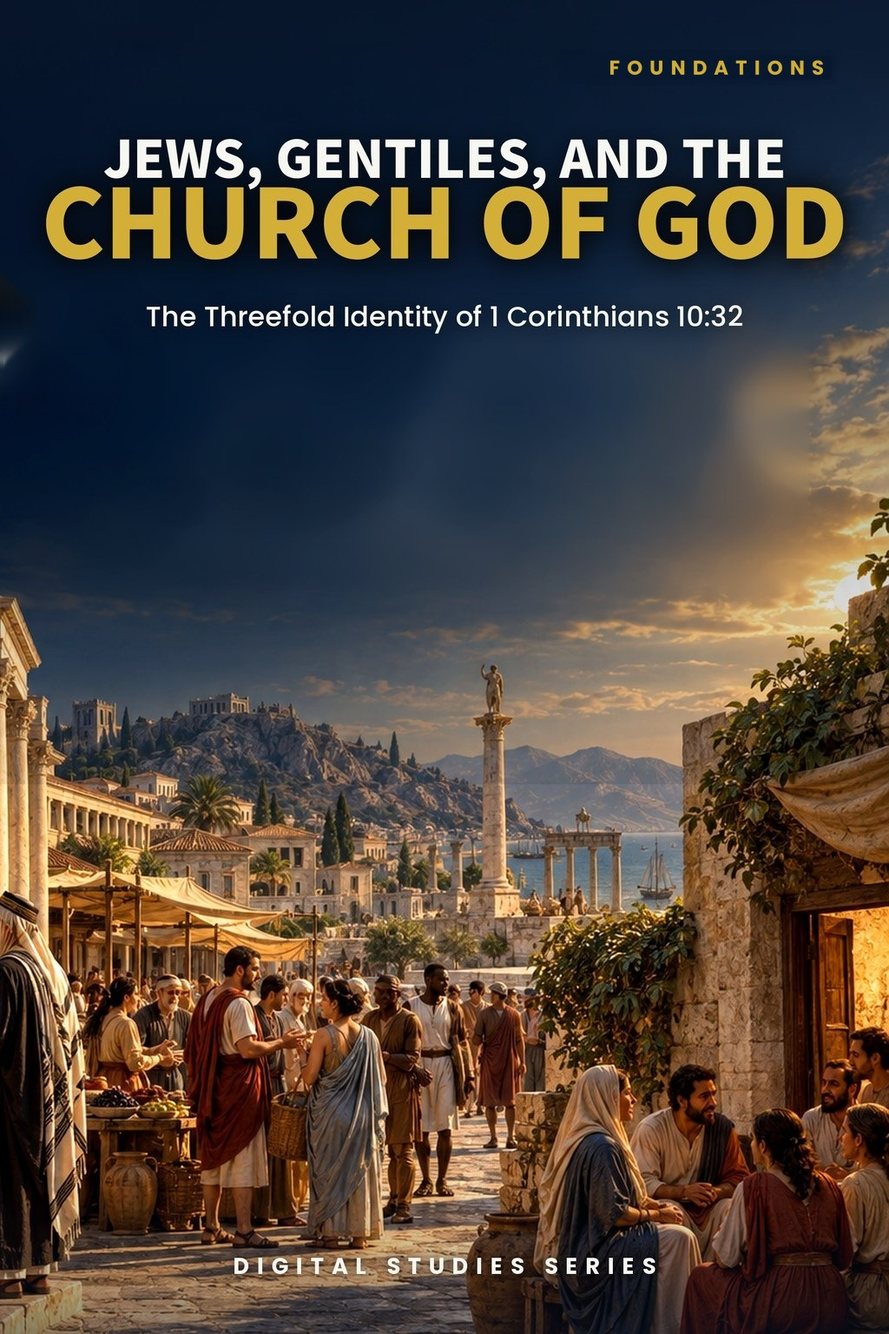
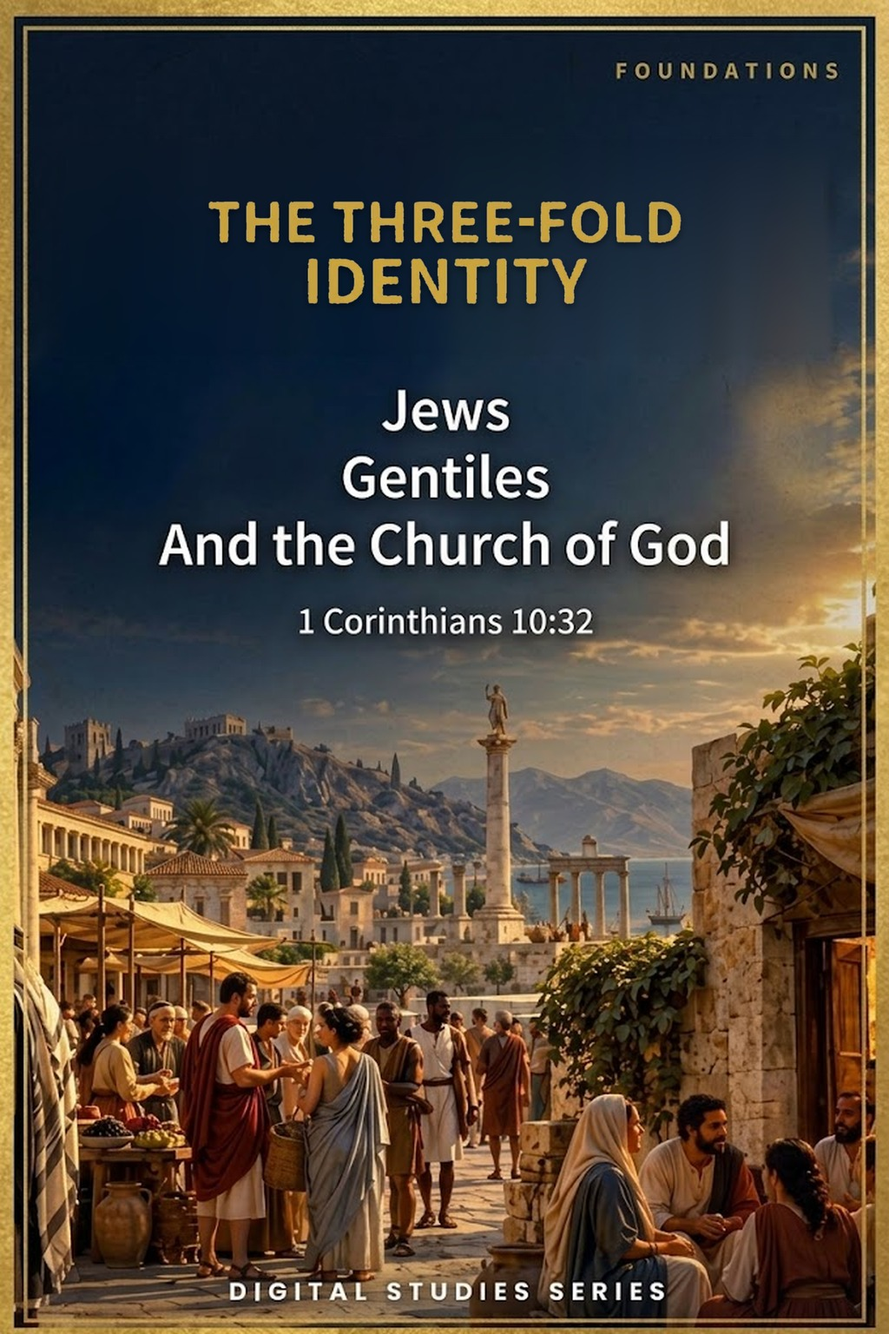
Study 36: Roboto/Standard rebuild, cover title reduced and hyphenated, previews 2/3/5, 16 pages; PAM audit v1.67
Claude-Session: https://claude.ai/code/session_01TLNFW47XCW6YAMUxScR3v4

diff --git a/study-36-jews-gentiles-and-the-church-of-god.html b/study-36-jews-gentiles-and-the-church-of-god.html
@@ -2,12 +2,12 @@
 <html lang="en"><head><meta charset="utf-8"><meta name="viewport" content="width=device-width,initial-scale=1"><title>Jews, Gentiles, and the Church of God | Zay-Marie Press</title><meta name="description" content="Examine the threefold identity of 1 Corinthians 10:32 and distinguish Jewish or Gentile origin from the Church of God’s corporate standing in Christ."><link rel="stylesheet" href="styles.css?v=20260921-4"><link rel="icon" type="image/png" href="assets/zay-marie-press-favicon.png"><style>
 .study-detail-page{background:#fff;color:#252525}.detail-hero{background:linear-gradient(135deg,#f8f5ec,#e3ece2);padding:58px 0}.detail-hero-grid{display:grid;grid-template-columns:minmax(250px,.72fr) minmax(0,1.28fr);gap:58px;align-items:center}.detail-cover{max-width:390px;margin:auto}.detail-cover img{display:block;width:100%;height:auto;box-shadow:0 14px 36px rgba(8,45,69,.18)}.detail-hero h1{font-size:clamp(2.7rem,5vw,4.7rem);line-height:1.02;margin:8px 0 10px;color:#143823}.detail-subtitle{font-family:Georgia,serif;font-size:1.35rem;font-weight:700;color:#082d45;margin:0 0 7px}.detail-kicker{font-family:Georgia,serif;font-style:italic;font-size:1.05rem;color:#4a4a44;margin:0 0 22px}.detail-copy{font-size:1.08rem;line-height:1.65;max-width:760px}.detail-buyline{display:flex;align-items:center;gap:18px;flex-wrap:wrap;margin-top:25px}.detail-price{font-family:Georgia,serif;font-size:2rem;font-weight:700;color:#143823}.detail-format,.preview-card .page-no{font-family:Arial,sans-serif;font-size:.76rem;font-weight:700;letter-spacing:.1em;text-transform:uppercase;color:#176b3a}.detail-button{display:inline-block;background:#176b3a;color:#fff;padding:13px 22px;font-family:Arial,sans-serif;font-size:.8rem;font-weight:700;letter-spacing:.07em;text-transform:uppercase}.detail-button.pending{opacity:.72;cursor:default}.detail-section{padding:66px 0}.detail-section.soft{background:#f6f7f2}.detail-section.cream{background:#faf8f2}.detail-section h2{color:#143823;margin:6px 0 18px;font-size:clamp(2rem,3.4vw,3rem)}.detail-section .lead{max-width:920px;font-size:1.1rem;line-height:1.62}.study-distinction{max-width:920px;margin-top:28px;margin-bottom:28px;padding:26px 28px;background:#fff;border:1px solid #d8d1bf;border-left:4px solid #b8871c}.study-distinction h3{margin:0 0 10px;color:#143823}.study-distinction p{margin:0 0 14px;line-height:1.62}.study-distinction a{font-family:Arial,sans-serif;font-weight:700;color:#176b3a;text-decoration:none}.study-points{display:grid;grid-template-columns:repeat(3,1fr);gap:18px;margin-top:28px;margin-bottom:28px}.study-point,.scripture-card,.preview-card,.include-item{background:#fff;border:1px solid var(--line);text-align:left}.study-point{border-top:3px solid #176b3a;padding:22px}.study-point h3{color:#143823;margin:0 0 8px;font-size:1.2rem}.study-point p,.scripture-card p,.preview-card p,.include-item p{margin:0;line-height:1.55}.scripture-grid{display:grid;grid-template-columns:repeat(4,1fr);gap:14px;margin-top:24px;margin-bottom:24px}.scripture-card{padding:22px 20px;color:#143823}.scripture-card h3{margin:0 0 9px;font-family:Georgia,serif;font-size:1rem;line-height:1.35}.scripture-card p{font-size:.94rem;color:#45453f}.excerpt{max-width:900px;margin:28px auto;border-left:4px solid #b8871c;padding:10px 0 10px 28px}.excerpt blockquote{font-family:Georgia,serif;font-size:clamp(1.45rem,2.5vw,2rem);line-height:1.45;color:#143823;margin:0 0 16px}.excerpt p{line-height:1.6;margin:0}.preview-grid{display:grid;grid-template-columns:repeat(2,1fr);gap:20px;margin-top:28px;margin-bottom:28px}.preview-card{padding:18px;min-height:210px;box-shadow:0 7px 20px rgba(20,40,25,.05)}.preview-image-link{display:block;margin:0 0 18px}.preview-image-link img{display:block;width:100%;height:auto;border:1px solid #d8d1bf;box-shadow:0 8px 22px rgba(20,40,25,.1);transition:transform .18s ease,box-shadow .18s ease}.preview-image-link:hover img{transform:translateY(-2px);box-shadow:0 11px 28px rgba(20,40,25,.16)}.preview-card h3{color:#143823;margin:8px 0 10px}.preview-instruction{margin:10px 0 0;font-family:Arial,sans-serif;font-size:.78rem;letter-spacing:.04em;color:#5b5b55}.includes-grid{display:grid;grid-template-columns:repeat(4,1fr);gap:14px;margin-top:26px}.include-item{padding:22px 20px;color:#143823}.include-item h3{margin:0 0 9px;font-family:Arial,sans-serif;font-size:.86rem;line-height:1.35;letter-spacing:.02em}.include-item p{font-size:.94rem;color:#45453f}.final-buy{background:#082d45;color:#fff;border-top:4px solid #b8871c;padding:42px 48px;display:grid;grid-template-columns:1fr auto;gap:36px;align-items:center}.final-buy .eyebrow,.final-buy h2,.final-buy .detail-price{color:#fff}.final-buy h2{margin:7px 0 6px}.final-buy p{margin:0}.final-offer{text-align:center}.back-link{display:inline-block;margin-top:18px;color:#143823;font-family:Arial,sans-serif;font-weight:700;text-decoration:none}.preview-lightbox{position:fixed;inset:0;z-index:10000;display:none;align-items:flex-start;justify-content:center;background:rgba(8,22,16,.88);padding:24px;overflow:auto}.preview-lightbox.open{display:flex}.preview-lightbox img{display:block;width:auto;height:auto;max-width:none;box-shadow:0 18px 55px rgba(0,0,0,.4);background:#fff}.preview-lightbox-close{position:fixed;top:18px;right:24px;z-index:10001;width:46px;height:46px;border:1px solid rgba(255,255,255,.65);border-radius:50%;background:rgba(0,0,0,.55);color:#fff;font:32px/1 Arial,sans-serif;cursor:pointer}@media(max-width:900px){.detail-hero-grid{grid-template-columns:1fr;gap:34px}.detail-cover{max-width:330px}.study-points{grid-template-columns:repeat(2,1fr)}.scripture-grid,.includes-grid{grid-template-columns:repeat(2,1fr)}.preview-grid,.final-buy{grid-template-columns:1fr}.final-offer{text-align:left}}@media(max-width:560px){.detail-hero{padding:42px 0}.detail-section{padding:50px 0}.study-points,.scripture-grid,.includes-grid{grid-template-columns:1fr}.final-buy{padding:32px 24px}.detail-buyline{align-items:flex-start;flex-direction:column;gap:8px}.preview-lightbox{padding:58px 10px 24px}.preview-lightbox img{width:100%;max-width:100%;height:auto}}</style></head><body class="study-detail-page">
 <header class="site-header"><div class="wrap nav"><a class="logo" href="index.html" aria-label="Zay-Marie Press home"><img src="assets/zay-marie-press-logo-hq.png" alt="Zay-Marie Press" width="420" height="238"></a><button class="menu-toggle" type="button" aria-expanded="false" aria-controls="primary-nav">MENU</button><nav aria-label="Primary navigation" class="primary-nav" id="primary-nav"><a href="index.html">HOME</a><a href="books.html">BOOKS</a><a href="series.html">SERIES</a><a class="active" aria-current="page" href="digital-studies.html">DIGITAL STUDIES</a><a href="biblical-hermeneutics-course.html">COURSE</a><a href="about.html">ABOUT</a><a href="resources.html">RESOURCES</a><a href="contact.html">CONTACT</a></nav></div></header><main>
-<section class="detail-hero"><div class="wrap detail-hero-grid"><div class="detail-cover"><picture><source srcset="assets/study-36-cover.webp" type="image/webp"><img src="assets/study-36-cover.jpg" alt="Jews, Gentiles, and the Church of God cover"></picture></div><div><div class="eyebrow">BIBLICAL DOCTRINE · DIGITAL STUDY</div><h1>Jews, Gentiles, and the Church of God</h1><p class="detail-subtitle">The Threefold Identity of 1 Corinthians 10:32</p><p class="detail-kicker">A focused examination of historical origin, corporate standing, and responsible conduct before all people</p><p class="detail-copy">First Corinthians 10:32 names Jews, Gentiles, and the Church of God within Paul’s instruction about liberty, conscience, idolatry, and avoiding needless offense. What do these categories identify, and how do they relate?</p><p class="detail-copy">This study distinguishes historical and national origin from corporate standing in Christ. It explains equal membership in one Body without erasing Israel, the nations, or the distinct apostolic lines operating during the Acts overlap.</p><div class="detail-buyline"><span class="detail-price">$5.99</span><span class="detail-format">Digital PDF · 15 Pages</span><span class="detail-button pending" aria-disabled="true">Checkout Coming Soon</span></div></div></div></section>
+<section class="detail-hero"><div class="wrap detail-hero-grid"><div class="detail-cover"><picture><source srcset="assets/study-36-cover.webp" type="image/webp"><img src="assets/study-36-cover.jpg" alt="Jews, Gentiles, and the Church of God cover"></picture></div><div><div class="eyebrow">STUDY 36 · DIGITAL STUDY</div><h1>Jews, Gentiles, and the Church of God</h1><p class="detail-subtitle">The Threefold Identity of 1 Corinthians 10:32</p><p class="detail-kicker">A focused examination of historical origin, corporate standing, and responsible conduct before all people</p><p class="detail-copy">First Corinthians 10:32 names Jews, Gentiles, and the Church of God within Paul’s instruction about liberty, conscience, idolatry, and avoiding needless offense. What do these categories identify, and how do they relate?</p><p class="detail-copy">This study distinguishes historical and national origin from corporate standing in Christ. It explains equal membership in one Body without erasing Israel, the nations, or the distinct apostolic lines operating during the Acts overlap.</p><div class="detail-buyline"><span class="detail-price">$5.99</span><span class="detail-format">Digital PDF · 16 Pages</span><span class="detail-button pending" aria-disabled="true">Checkout Coming Soon</span></div></div></div></section>
 <section class="detail-section"><div class="wrap"><div class="eyebrow">ABOUT THIS STUDY</div><h2>Three Meaningful Categories, One Practical Command</h2><p class="lead">Paul’s command works because Jews, Gentiles, and the Church of God are recognizable categories. Yet the verse is not a simplistic census of mutually exclusive social identities. Paul remained an Israelite by descent while belonging to Christ, and Gentile believers retained their historical origin while receiving the same corporate standing in the Body.</p><p class="lead">The study therefore asks what question each designation answers. Historical origin, national relation, corporate standing, audience, and programmatic setting must be distinguished before the verse can be applied responsibly.</p><p class="lead">This is not a study of the broad Israel–Body distinction itself, which Study 4 establishes across every point of contrast, nor of the disputed identity expressions tested in Study 35, such as “Israel of God” and “spiritual Israel.” Its task is narrower: to fix 1 Corinthians 10:32’s three named categories to Paul’s own case — an unchanged Israelite by descent who also stands in the Body — and to show that a single verse naming three groups was never meant to erase what distinguishes them.</p><div class="study-distinction"><h3>How These Studies Relate</h3><p>Study 36 reads Jews, Gentiles, and the Church of God in 1 Corinthians 10:32 and distinguishes historical origin from standing in one Body.</p><p><a href="study-04-israel-and-the-body-of-christ.html">Study 4 — Israel and the Body of Christ</a> Set these three categories within the broader corporate distinction between Israel and the Body; this explains why origin and present membership answer different questions.</p><p><a href="study-35-who-is-the-israel-of-god.html">Study 35 — Who Is the Israel of God?</a> Test contested labels such as ‘Israel of God’ against Paul’s categories instead of using one debated phrase to erase distinctions elsewhere.</p><p class="connection-guide-link"><a href="study-connections.html#study-36">Explore the full connection guide for Study 36 →</a></p></div></div></section>
-<section class="detail-section soft"><div class="wrap"><div class="eyebrow">WHAT YOU’LL STUDY</div><h2>Read Every Identity Term at the Right Level</h2><div class="study-points"><div class="study-point"><h3>The Immediate Context</h3><p>Place 1 Corinthians 10:32 within Paul’s teaching on liberty, conscience, idolatry, edification, and avoiding needless offense.</p></div><div class="study-point"><h3>Jews and Gentiles</h3><p>Define Israel’s continuing historical category and the nations outside Israel without making natural origin a basis of spiritual rank.</p></div><div class="study-point"><h3>The Church of God</h3><p>Identify the called corporate people addressed in Paul’s Mystery apostleship and their unity as one Body in Christ.</p></div><div class="study-point"><h3>Origin and Standing</h3><p>Distinguish Jewish or Gentile background from the believer’s new corporate standing without denying either truth.</p></div><div class="study-point"><h3>Equality Without Erasure</h3><p>Read Galatians 3 and Ephesians 2 without turning equal standing into the disappearance of every historical or programmatic distinction.</p></div><div class="study-point"><h3>The Acts Overlap</h3><p>Place the threefold identity within the concurrent Prophecy and Mystery programs and the distinct apostolic lines of Peter and Paul.</p></div></div></div></section>
+<section class="detail-section soft"><div class="wrap"><div class="eyebrow">WHAT YOU’LL STUDY</div><h2>Read Every Identity Term at the Right Level</h2><div class="study-points"><div class="study-point"><h3>The Immediate Context</h3><p>Place 1 Corinthians 10:32 within Paul’s teaching on liberty, conscience, idolatry, edification, and avoiding needless offense.</p></div><div class="study-point"><h3>Jews and Gentiles</h3><p>Define Israel’s continuing historical category and the nations outside Israel without making natural origin a basis of spiritual rank.</p></div><div class="study-point"><h3>The Church of God</h3><p>Identify the called corporate people addressed in Paul’s Mystery apostleship and their unity as one Body in Christ.</p></div><div class="study-point"><h3>Origin and Standing</h3><p>Compare what Paul says about Jewish or Gentile background with what he says about the believer’s corporate standing.</p></div><div class="study-point"><h3>Equality Without Erasure</h3><p>Read Galatians 3 and Ephesians 2 without turning equal standing into the disappearance of every historical or programmatic distinction.</p></div><div class="study-point"><h3>The Acts Overlap</h3><p>Trace how Acts 9–28 and Galatians 2:7–9 frame the Prophecy and Mystery programs and the assignments of Peter and Paul.</p></div></div></div></section>
 <section class="detail-section cream"><div class="wrap"><div class="eyebrow">KEY SCRIPTURES</div><h2>Follow Paul’s Categories Across the Argument</h2><div class="scripture-grid"><div class="scripture-card"><h3>1 Corinthians 8–10</h3><p>Liberty is governed by love, conscience, edification, God’s glory, and another person’s spiritual good.</p></div><div class="scripture-card"><h3>1 Corinthians 10:32</h3><p>Jews, Gentiles, and the Church of God are named within one practical command.</p></div><div class="scripture-card"><h3>1 Corinthians 12:12–13</h3><p>Jewish and Gentile believers are identified by one Spirit into one Body.</p></div><div class="scripture-card"><h3>Romans 3:9, 29–30</h3><p>Jews and Gentiles share guilt and the need for justification without losing their designations.</p></div><div class="scripture-card"><h3>Romans 9–11</h3><p>Israel, the faithful remnant, and Gentiles remain distinguishable within Paul’s programmatic argument.</p></div><div class="scripture-card"><h3>Galatians 3:26–29</h3><p>Equal standing in Christ removes status-based superiority without erasing every distinction.</p></div><div class="scripture-card"><h3>Ephesians 2:11–18</h3><p>Christ reconciles both in one new man and one Body rather than turning either former group into the other.</p></div><div class="scripture-card"><h3>Galatians 2:7–9</h3><p>Peter and Paul represent two distinct apostolic lines operating concurrently during the Acts overlap.</p></div></div></div></section>
 <section class="detail-section"><div class="wrap"><div class="eyebrow">FROM THE STUDY</div><h2>Historical Origin and Corporate Standing</h2><div class="excerpt"><blockquote>“A Jewish believer may retain Jewish descent while possessing a new corporate identity in the Body. A Gentile believer may retain Gentile origin while possessing the same standing in Christ.”</blockquote><p>The descriptions answer related but different questions. Equality in Christ removes every claim to spiritual superiority without making Israel, the nations, or the Body meaningless categories.</p></div></div></section>
-<section class="detail-section soft"><div class="wrap"><div class="eyebrow">A LOOK INSIDE</div><h2>Preview the Study Before You Purchase</h2><p class="preview-instruction">Click any page to enlarge it for reading.</p><div class="preview-grid"><div class="preview-card"><a class="preview-image-link" data-preview-lightbox href="assets/study-36-page-3.jpg"><img src="assets/study-36-page-3.jpg" alt="Study 36 page 3 learning outcomes, Study Goal, and Study Outline"></a><div class="page-no">Page 3</div><h3>Learning Outcomes and Study Goal</h3><p>Begin with the identity distinctions, interpretive controls, and questions that govern the study.</p></div><div class="preview-card"><a class="preview-image-link" data-preview-lightbox href="assets/study-36-page-6.jpg"><img src="assets/study-36-page-6.jpg" alt="Study 36 page 6 the Church of God and category control"></a><div class="page-no">Page 6</div><h3>The Church of God</h3><p>Distinguish historical origin from corporate standing and see how Paul’s categories remain meaningful without being simplistic.</p></div><div class="preview-card"><a class="preview-image-link" data-preview-lightbox href="assets/study-36-page-8.jpg"><img src="assets/study-36-page-8.jpg" alt="Study 36 page 8 one new man and the Acts overlap"></a><div class="page-no">Page 8</div><h3>One New Man During the Overlap</h3><p>Follow Ephesians 2–3 into the Acts 9–28 setting without merging Peter’s and Paul’s distinct apostolic lines.</p></div><div class="preview-card"><a class="preview-image-link" data-preview-lightbox href="assets/study-36-page-11.jpg"><img src="assets/study-36-page-11.jpg" alt="Study 36 page 11 conclusion and study summary"></a><div class="page-no">Page 11</div><h3>Doctrine and Responsible Conduct</h3><p>Bring the identity categories together in a concise conclusion and practical summary for the Body of Christ.</p></div></div></div></section>
+<section class="detail-section soft"><div class="wrap"><div class="eyebrow">A LOOK INSIDE</div><h2>Preview the Study Before You Purchase</h2><p class="preview-instruction">Click any page to enlarge it for reading.</p><div class="preview-grid"><div class="preview-card"><a class="preview-image-link" data-preview-lightbox href="assets/study-36-page-2.jpg"><img src="assets/study-36-page-2.jpg" alt="Study 36 interior preview — page 2, table of contents"></a><div class="page-no">Page 2</div><h3>Table of Contents</h3><p>See the study’s full structure and scope at a glance.</p></div><div class="preview-card"><a class="preview-image-link" data-preview-lightbox href="assets/study-36-page-3.jpg"><img src="assets/study-36-page-3.jpg" alt="Study 36 interior preview — page 3, learning outcomes, Study Goal, and Study Outline"></a><div class="page-no">Page 3</div><h3>Learning Outcomes and Study Goal</h3><p>Begin with the questions, passages, and interpretive controls that govern the study.</p></div><div class="preview-card"><a class="preview-image-link" data-preview-lightbox href="assets/study-36-page-5.jpg"><img src="assets/study-36-page-5.jpg" alt="Study 36 interior preview — page 5, the Jews, the Gentiles, and a category table"></a><div class="page-no">Page 5</div><h3>The Jews and the Gentiles in Paul’s Usage</h3><p>See how each term is defined from Paul’s own wording and set beside what it does not guarantee.</p></div></div></div></section>
 <section class="detail-section"><div class="wrap"><div class="eyebrow">WHAT’S INCLUDED</div><h2>A Focused Study Built for<br>Doctrinal Precision and Responsible Application</h2><div class="includes-grid"><div class="include-item"><h3>Focused Biblical Study</h3><p>A sustained examination of 1 Corinthians 10:32 and the identity questions that surround Paul’s threefold designation.</p></div><div class="include-item"><h3>Fourteen Teaching Sections</h3><p>Move from the immediate context through Romans, Galatians, Ephesians, the Acts overlap, and present doctrine.</p></div><div class="include-item"><h3>Contextual Exegesis</h3><p>Examine named audiences, argument, historical origin, corporate standing, and programmatic setting.</p></div><div class="include-item"><h3>High-Contrast Tables</h3><p>Compare categories, questions, designations, and controls without simplifying or collapsing identity.</p></div><div class="include-item"><h3>Scripture-Tracing Exercise</h3><p>Trace Jew, Gentile, Church of God, one Body, remnant, and apostolic line across the principal passages.</p></div><div class="include-item"><h3>Review Questions</h3><p>Test the difference between equality, origin, standing, audience, participation, and corporate identity.</p></div><div class="include-item"><h3>Teaching Outline</h3><p>Use a ready framework for teaching the verse, defining the categories, testing unity language, and applying the doctrine.</p></div><div class="include-item"><h3>Guided Further Study</h3><p>Grouped investigations support deeper work in Corinthians, Romans, Galatians, Ephesians, and the Acts overlap.</p></div></div></div></section>
-<section class="detail-section cream"><div class="wrap"><div class="final-buy"><div><div class="eyebrow">BIBLICAL DOCTRINE · DIGITAL STUDY</div><h2>Jews, Gentiles, and the Church of God</h2><p>Digital PDF · 15 Pages · For personal use</p></div><div class="final-offer"><div class="detail-price">$5.99</div><span class="detail-button pending" aria-disabled="true">Checkout Coming Soon</span></div></div><a class="back-link" href="digital-studies.html">← Back to All Digital Studies</a></div></section><section class="study-method-course-bridge"><div class="wrap"><div class="study-method-course-panel"><div><div class="eyebrow">BUILD THE INTERPRETIVE METHOD</div><h2>Want More Than a Focused Study?</h2><p>Digital Studies examine particular biblical subjects and difficult passages. The 40-lesson Biblical Hermeneutics course teaches a complete, repeatable method for establishing meaning in context, determining proper assignment, and making responsible application.</p></div><a class="btn btn-primary" href="biblical-hermeneutics-course.html">BIBLICAL HERMENEUTICS COURSE</a></div></div></section></main>
+<section class="detail-section cream"><div class="wrap"><div class="final-buy"><div><div class="eyebrow">STUDY 36 · DIGITAL STUDY</div><h2>Jews, Gentiles, and the Church of God</h2><p>Digital PDF · 16 Pages · For personal use</p></div><div class="final-offer"><div class="detail-price">$5.99</div><span class="detail-button pending" aria-disabled="true">Checkout Coming Soon</span></div></div><a class="back-link" href="digital-studies.html">← Back to All Digital Studies</a></div></section><section class="study-method-course-bridge"><div class="wrap"><div class="study-method-course-panel"><div><div class="eyebrow">BUILD THE INTERPRETIVE METHOD</div><h2>Want More Than a Focused Study?</h2><p>Digital Studies examine particular biblical subjects and difficult passages. The 40-lesson Biblical Hermeneutics course teaches a complete, repeatable method for establishing meaning in context, determining proper assignment, and making responsible application.</p></div><a class="btn btn-primary" href="biblical-hermeneutics-course.html">BIBLICAL HERMENEUTICS COURSE</a></div></div></section></main>
 <div class="preview-lightbox" id="preview-lightbox" role="dialog" aria-modal="true" aria-label="Expanded study preview"><button class="preview-lightbox-close" type="button" aria-label="Close preview">×</button><img id="preview-lightbox-image" alt=""></div><footer class="site-footer"><div class="wrap footer-grid"><div class="footer-about"><h3>Zay-Marie Press</h3><p class="footer-tagline"><em>Where the Bible Means What It Says.</em></p><p>Zay-Marie Press is a Christian theological publisher dedicated to producing doctrinally precise, carefully structured biblical resources that equip pastors, teachers, and serious students with clarity, depth, and Scripture-anchored truth.</p><p><a href="https://zaymariepress.com">zaymariepress.com</a><br><a href="mailto:info@zaymariepress.com">info@zaymariepress.com</a></p></div><div class="footer-column"><h3>Explore</h3><div class="footer-links-stacked"><a href="books.html">Books</a><br><a href="series.html">Series</a><br><a href="biblical-hermeneutics-course.html">Course</a><br><a href="digital-studies.html">Digital Studies</a><br><a href="resources.html">Resources</a><br><a href="bible-book-summaries.html">Bible Book Summaries</a><br><a href="doctrinal-packets.html">Doctrinal Packets</a><br><a href="historical-drift.html">Historical Drift</a><br><a href="about.html">About</a><br><a href="contact.html">Contact</a></div></div><div class="footer-column"><h3>Reader Support</h3><div class="footer-links-stacked"><a href="reader-support.html#faq">FAQ</a><br><a href="reader-support.html#shipping-returns">Shipping &amp; Returns</a><br><a href="reader-support.html#digital-downloads">Digital Downloads</a><br><a href="reader-support.html#contact-support">Contact Support</a></div></div><div class="footer-column"><h3>Acts Overlap</h3><p><strong>Acts Overlap Theology Series</strong></p><p><em>Two Distinct Streams. One Overlap.</em></p><p><a href="series.html">Series Overview</a></p></div></div><div class="wrap footer-bottom">© 2026 Zay-Marie Press. All rights reserved.</div></footer><script src="site.js"></script><script>const lightbox=document.getElementById('preview-lightbox'),lightboxImage=document.getElementById('preview-lightbox-image'),closeLightbox=()=>{lightbox.classList.remove('open');lightboxImage.src='';};document.querySelectorAll('[data-preview-lightbox]').forEach(link=>link.addEventListener('click',event=>{event.preventDefault();lightboxImage.src=link.href;lightboxImage.alt=link.querySelector('img').alt;lightbox.classList.add('open');}));document.querySelector('.preview-lightbox-close').addEventListener('click',closeLightbox);lightbox.addEventListener('click',event=>{if(event.target===lightbox)closeLightbox();});document.addEventListener('keydown',event=>{if(event.key==='Escape')closeLightbox();});</script></body></html>

diff --git a/site.js b/site.js
@@ -62,7 +62,7 @@ const resourceModal=document.querySelector('#resource-modal'), resourceModalTitl
 if(resourceModal&&resourceModalTriggers.length){const closeResourceModal=()=>{resourceModal.hidden=true;document.body.classList.remove('resource-modal-open');lastResourceTrigger?.focus();};resourceModalTriggers.forEach(trigger=>trigger.addEventListener('click',()=>{lastResourceTrigger=trigger;if(resourceModalTitle)resourceModalTitle.textContent=trigger.dataset.title||'Resource';if(resourceModalDescription)resourceModalDescription.textContent=trigger.dataset.description||'';if(resourceModalLink){resourceModalLink.href=trigger.dataset.href||'#';resourceModalLink.textContent=trigger.dataset.linkText||'OPEN RESOURCE';}resourceModal.hidden=false;document.body.classList.add('resource-modal-open');resourceModalClose?.focus();}));resourceModalClose?.addEventListener('click',closeResourceModal);resourceModal.addEventListener('click',e=>{if(e.target===resourceModal)closeResourceModal();});document.addEventListener('keydown',e=>{if(e.key==='Escape'&&!resourceModal.hidden)closeResourceModal();});}
 
 /* Display the verified final-PDF page count at the primary purchase decision point. */
-const digitalStudyPageCounts={1:14,2:14,3:18,4:18,5:16,6:16,7:16,8:16,9:16,10:23,11:15,12:14,13:18,14:15,15:16,16:16,17:18,18:18,19:16,20:16,21:16,22:16,23:16,24:16,25:17,26:18,27:16,28:16,29:16,30:17,31:19,32:16,33:16,34:16,35:16,36:15,37:15,38:16,39:16,40:15,41:15,42:15,43:17,44:15,45:15,46:15,47:16,48:15,49:14,50:14,51:15,52:15,53:15,54:15,55:16,56:16,61:16,62:16,63:16,64:16,65:16,66:16,67:16,68:16,69:16,70:16,71:16};
+const digitalStudyPageCounts={1:14,2:14,3:18,4:18,5:16,6:16,7:16,8:16,9:16,10:23,11:15,12:14,13:18,14:15,15:16,16:16,17:18,18:18,19:16,20:16,21:16,22:16,23:16,24:16,25:17,26:18,27:16,28:16,29:16,30:17,31:19,32:16,33:16,34:16,35:16,36:16,37:15,38:16,39:16,40:15,41:15,42:15,43:17,44:15,45:15,46:15,47:16,48:15,49:14,50:14,51:15,52:15,53:15,54:15,55:16,56:16,61:16,62:16,63:16,64:16,65:16,66:16,67:16,68:16,69:16,70:16,71:16};
 const digitalStudyMatch=window.location.pathname.match(/\/study-(\d+)-/i);
 const digitalStudyFormat=document.querySelector('.detail-hero .detail-format');
 if(digitalStudyMatch&&digitalStudyFormat){const studyNumber=Number(digitalStudyMatch[1]),pageCount=digitalStudyPageCounts[studyNumber];if(pageCount)digitalStudyFormat.textContent=`Digital PDF · ${pageCount} Pages`;}

diff --git a/controlling-documents/Digital_Studies_PAM_Audit_v1.67.md b/controlling-documents/Digital_Studies_PAM_Audit_v1.67.md
@@ -1,4 +1,4 @@
-# Digital Studies vs. PAM Audit — v1.66
+# Digital Studies vs. PAM Audit — v1.67
 
 Working tracker and instructions for checking the Digital Studies against the Program Assignment Manual (PAM), §XIX of `Framework_Control_Document_Acts_Overlap.docx`, including its "Section 4 — Publisher Rulings". Same `_vX.Y` convention as the other controlling documents: update the status table and changelog as the audit proceeds, bump the version, and rename the file to match.
 
@@ -296,3 +296,4 @@ Study 15 PDF not yet supplied. Typography: none of Studies 2, 3, 6, 8 is in EB G
 - v1.64 (2026-10-01): Standing drafting rules added at the publisher's direction, so settled rulings are no longer asked again: Framework §XIX "Section 4 (continued) — Standing Drafting Rules, PAM Rules 7–10" (identity wording, books the PAM does not assign, standing wording for settled rulings, review procedure); Master Standard v1.32 → v1.33 (new §20 Doctrinal Drafting Standard; Locked Status and Version History renumbered to §21 and §22; DOCX and PDF renamed and regenerated, 16 pages); CLAUDE.md updated in the same pass. Study 35 (Step 2 review copy delivered) will be logged as v1.65 on push.
 - v1.65 (2026-10-01): Study 35 (Who Is the Israel of God?) read in full against the PAM and Framework from the publisher's DOCX (about 13 interior pages in source): two conflicts with the Gal 6:16 / remnant rulings, corrected at the publisher's direction. (1) §6 "believing Israel—Israelites who acknowledge…" became "believing Jews within the Body—Israelites by identity who acknowledge…"; (2) "a faithful remnant of Israel remains visible while Paul's Mystery ministry gathers the Body" became "believing Jews are gathered into the Body through Paul's Mystery ministry; they remain Israelites by identity, and the remnant Paul names is made up of them." The same correction was applied to the Conclusion, Teaching Outline 5, Summary bullet 1 and the §6 readings-table cell. The remnant clarifier ("This speaks of identity, not program membership; the remnant is ethnic-covenantal, and believing Jews are gathered into the Body during the Mystery administration") was added to §10 and the Summary remnant bullet; "Gentiles participate spiritually" was added to the Galatians 3:26–29 paragraph. Galatians 2:7–9 reported without further assignment (PAM silent). Acts overlap, Rom 9–11, Eph 2:11–18, Rom 2–4, 1 Cor 10:32, Phil 3, Col 2 and 2 Cor 5 clear. Spoiler fixes (§17): What You Will Learn bullets 5 and 7 and the Study Goal rewritten as process lines; website What You'll Study left (already process wording). Five callouts already; rebuilt to the Roboto/Standard format (title page and typed numerals removed, TOC rebuilt flat, Study Outline and Teaching Outline as bullets); one neutral KJV table added to the Scripture-Tracing section; 15 interior pages plus cover (16 total, site.js 35:16). Cover: the website cover as is, scaled to 1600×2400 with the ISRAEL & PROPHECY label, "ISRAEL OF GOD?" reduced 35% (background rebuilt). Previews: pages 2, 3 and 5 (replace pages 2, 3 and 6). Hero and final-buy eyebrows changed from BIBLICAL DOCTRINE to STUDY 35 · DIGITAL STUDY; page counts 15 → 16. The standing drafting rules (PAM Rules 7–10, v1.64) now cover this wording going forward. Pushed after the publisher's approval.
 - v1.66 (2026-10-01): Rule 7 amended from the Study 36 check (publisher ruling): Peter's believing company and the circumcision apostleship during Acts 9–28 may be described as under the Prophecy Program only with the identity clarification; no believing Israelite is placed outside the Body after Acts 9. Framework Rule 7 paragraph added; Master Standard v1.33 → v1.34 (§20, Rule 7; DOCX and PDF renamed and regenerated); CLAUDE.md updated in the same pass.
+- v1.67 (2026-10-01): Study 36 (Jews, Gentiles, and the Church of God) read in full against the PAM and Framework from the publisher's DOCX (about 13 interior pages in source): no conflicts; Rule 7 wording applied. The remnant clarifier ("This speaks of identity, not program membership; the remnant is ethnic-covenantal, and believing Jews are gathered into the Body during the Mystery administration") was added to §11 ¶1 and the Key Distinctions remnant row; Review Question 10 ("Why must the believing remnant not be collapsed into the Body…") was reworded to compare the remnant (identity category) with the Body (administrative category); the §10 table's "Israel, the remnant, circumcision apostleship" became "Israel and the circumcision apostleship". One new publisher ruling, now Rule 7 (Framework, Master Standard v1.34, CLAUDE.md): Peter's believing company and the circumcision apostleship during Acts 9–28 may be described as under the Prophecy Program only with the clarification "During the overlap, the circumcision apostleship ministers to Israel under the Prophecy Program; believing Jews are gathered into the Body through Paul's ministry, and this speaks of identity, not program membership"; no believing Israelite is placed outside the Body after Acts 9. The clarification was added in the §10 intro, §11 ¶2 and the Conclusion. Galatians 2:7–9 reported as text with two entrusted spheres, no further assignment. Acts overlap, 1 Cor 12:13, Eph 2–3, Rom 1–3, 9–11 and 15, Gal 3 and Phil 3 clear. Spoiler fixes (§17): What You Will Learn bullets 2–7 and the Study Goal rewritten as process lines; website What You'll Study points 4 and 6 reworded. Five callouts already (CATEGORY CONTROL split from its table). Rebuilt to the Roboto/Standard format; one neutral KJV table of 17 passages added to the Scripture-Tracing section; 15 interior pages plus cover (16 total, site.js 36:16). Cover: publisher-supplied finished cover (680×1024, scaled up), FOUNDATIONS label, title reduced 40% and hyphenated on the cover only ("THREE-FOLD"; the study subtitle and website still read "Threefold"). Previews: pages 2, 3 and 5 (replace four prior previews on pages 3, 6, 8, 11). Hero and final-buy eyebrows changed from BIBLICAL DOCTRINE to STUDY 36 · DIGITAL STUDY; page counts 15 → 16. Pushed after the publisher's approval.
